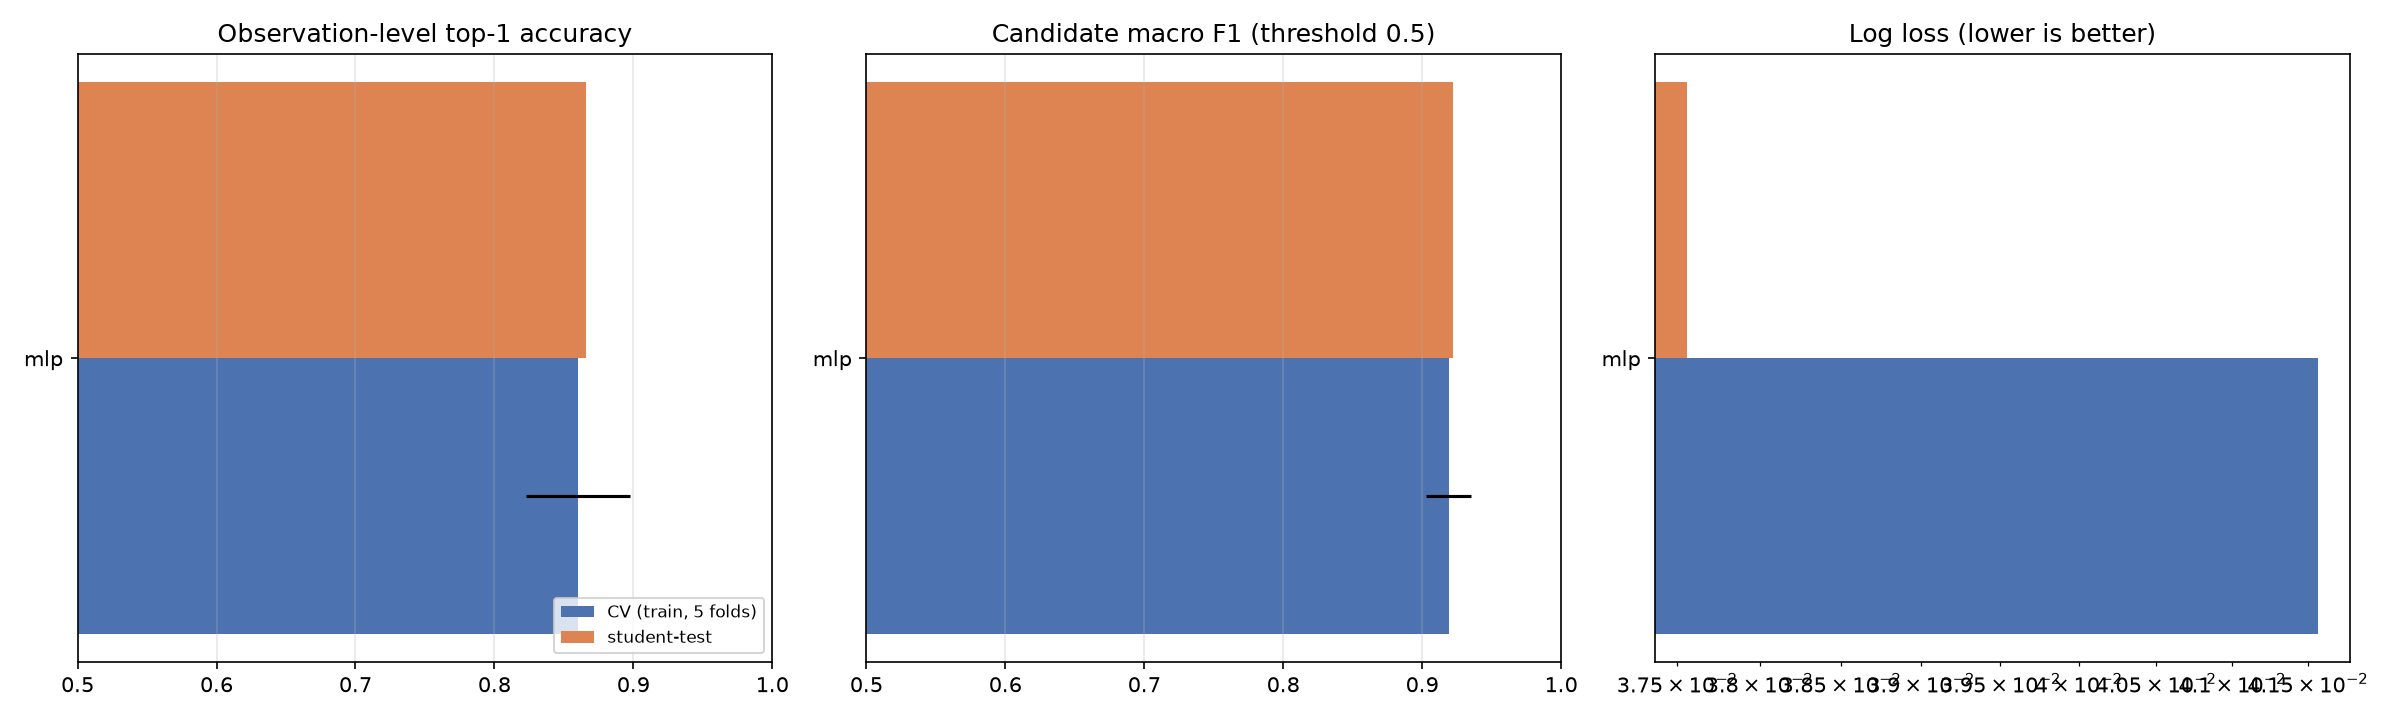
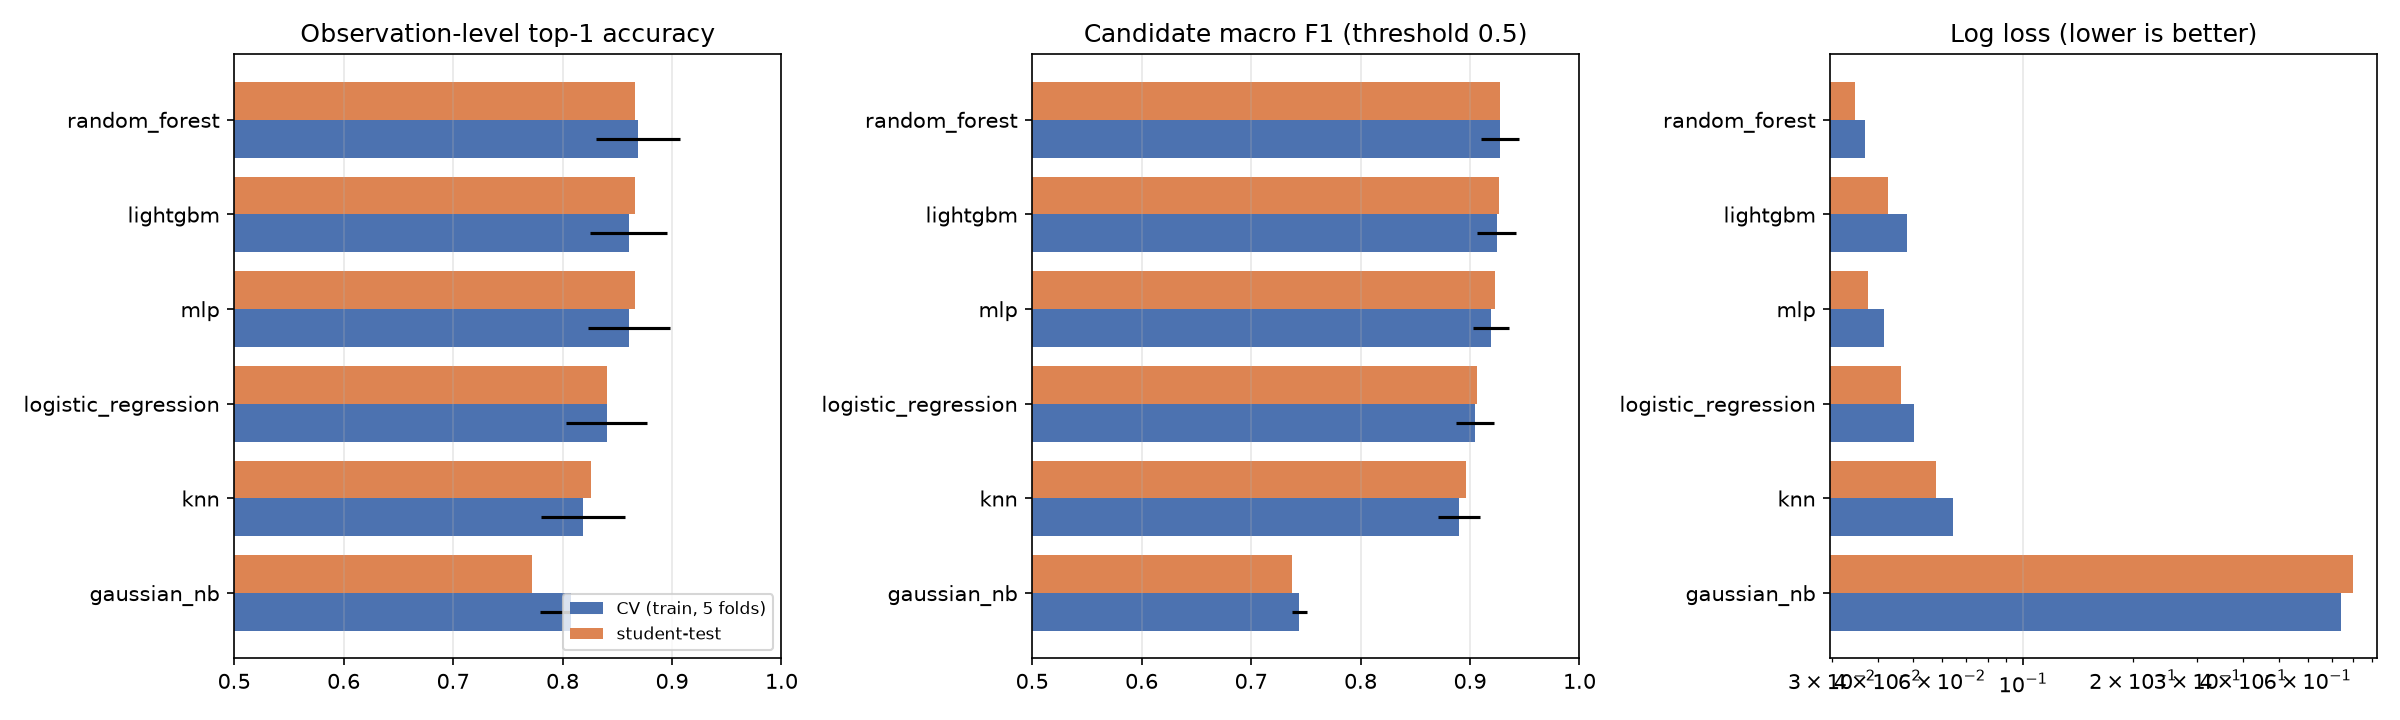
Final P2/P3 results: RF rerun, idle-machine timing, Section 3.1/4 tables filled, API latency benchmark, README results
Student-test: tuned LightGBM 0.882 -> +HMM 0.963 top-1; API 0.68 s/trip mean.

diff --git a/src/models/route_eval.py b/src/models/route_eval.py
@@ -7,9 +7,13 @@ classifier-only route continuity / edit distance, and top-1 after HMM decoding w
     python -m src.models.route_eval
 
 Inputs: results/test_prob_<model>.npy (written by train_compare / bayes_opt), configs/hmm.yaml
+Inputs (optional): results/inference_timing.csv (python -m src.models.timing)
 Outputs: results/model_route_metrics.csv, results/model_comparison_table.csv (report Section 3.1)
 """
+import os
+
 import numpy as np
+from joblib import Parallel, delayed
 import pandas as pd
 import yaml
 
@@ -24,25 +28,31 @@ NAMES = {"logistic_regression": "Logistic Regression", "gaussian_nb": "Gaussian 
          "lightgbm_tuned": "LightGBM (Bayesian-tuned)"}
 
 
+def _trip_rows(tid, ref, Fi, probs, params):
+    """All models on one trip (one lattice shared by every model). Runs in a worker process."""
+    trip = load_trip(tid, "student_test", load_route=False)
+    arcs = trip.arcs.values
+    lat = build_lattice(trip, Fi, gap_s=params["gap_s"])
+    rows = []
+    for m, p in probs.items():
+        c = sequence_metrics(top1_from_scores(Fi, p, len(ref)), ref, arcs)
+        h = sequence_metrics(decode(lat, p, params), ref, arcs)
+        rows.append({"model": m, "trip_id": tid, "n": len(ref), "clf_top1": c["top1"], "clf_continuity": c["continuity"],
+                     "clf_edit_distance": c["edit_distance"], "hmm_top1": h["top1"], "hmm_continuity": h["continuity"],
+                     "hmm_edit_distance": h["edit_distance"]})
+    return rows
+
+
 def main():
     F, P = load_partition("student_test")
     params = yaml.safe_load(open(REPO_ROOT / "configs" / "hmm.yaml"))["hmm"]
     models = [m for m in NAMES if (RES / f"test_prob_{m}.npy").exists()]
     probs = {m: np.load(RES / f"test_prob_{m}.npy") for m in models}
-    rows = []
-    for tid, g in P.groupby("trip_id"):
-        msk = (F.trip_id == tid).values
-        Fi, ref = F[msk], g.label_arc.values
-        trip = load_trip(tid, "student_test", load_route=False)
-        arcs = trip.arcs.values
-        lat = build_lattice(trip, Fi, gap_s=params["gap_s"])
-        for m in models:
-            p = probs[m][msk]
-            c = sequence_metrics(top1_from_scores(Fi, p, len(ref)), ref, arcs)
-            h = sequence_metrics(decode(lat, p, params), ref, arcs)
-            rows.append({"model": m, "trip_id": tid, "n": len(ref), "clf_top1": c["top1"], "clf_continuity": c["continuity"],
-                         "clf_edit_distance": c["edit_distance"], "hmm_top1": h["top1"], "hmm_continuity": h["continuity"],
-                         "hmm_edit_distance": h["edit_distance"]})
+    groups = [(tid, g.label_arc.values, (F.trip_id == tid).values) for tid, g in P.groupby("trip_id")]
+    out = Parallel(n_jobs=min(len(groups), os.cpu_count() or 1))(
+        delayed(_trip_rows)(tid, ref, F[msk][["point_idx", "arc_id", "frac"]], {m: probs[m][msk] for m in models}, params)
+        for tid, ref, msk in groups)
+    rows = [r for o in out for r in o]
     D = pd.DataFrame(rows)
     S = D.groupby("model").apply(lambda g: pd.Series({
         c: np.average(g[c], weights=g.n) for c in ["clf_top1", "clf_continuity", "hmm_top1", "hmm_continuity"]
@@ -51,6 +61,9 @@ def main():
     S.to_csv(RES / "model_route_metrics.csv", index=False)
 
     C = pd.read_csv(RES / "model_comparison.csv").set_index("model")
+    # inference time: idle-machine benchmark (src/models/timing.py) if available, else the time recorded during training
+    timing = (pd.read_csv(RES / "inference_timing.csv").set_index("model").ms_per_1k_rows
+              if (RES / "inference_timing.csv").exists() else None)
     T = []
     tuned = pd.read_csv(RES / "tuning" / "untuned_vs_tuned.csv") if (RES / "tuning" / "untuned_vs_tuned.csv").exists() else None
     for m in models:
@@ -71,7 +84,7 @@ def main():
                   "Route continuity (classifier only)": round(s.clf_continuity, 4),
                   "Route continuity (+HMM)": round(s.hmm_continuity, 4),
                   "Student-test macro F1": round(f1, 4), "Student-test log loss": round(ll, 4),
-                  "Inference time (ms / 1k candidates)": round(inf, 2)})
+                  "Inference time (ms / 1k candidates)": round(float(timing[m]) if timing is not None and m in timing.index else inf, 2)})
     T = pd.DataFrame(T)
     T.to_csv(RES / "model_comparison_table.csv", index=False)
     print(T.to_string(index=False))

diff --git a/api/benchmark.py b/api/benchmark.py
@@ -1,0 +1,31 @@
+"""
+api/benchmark.py
+End-to-end latency of the API's predict_trip (same code as POST /predict) for every evaluation trip,
+on an idle machine, split into stages (candidates, features + classifier, HMM lattice + Viterbi).
+
+    python -m api.benchmark        ->  results/api_latency.csv
+"""
+import pandas as pd
+import yaml
+
+from api.config import config
+from api.pipeline import predict_trip
+from src.data.loader import list_trips, REPO_ROOT
+from src.models.predictor import PathSnapPredictor
+
+
+def main():
+    pred = PathSnapPredictor(config.model_path)
+    hmm = yaml.safe_load(open(config.hmm_config_path, encoding="utf-8"))["hmm"]
+    rows = []
+    for tid in list_trips(config.eval_partition, config.data_dir):
+        r = predict_trip(tid, config.data_dir, config.eval_partition, predictor=pred, hmm_config=hmm)
+        rows.append({"trip_id": tid, "n_points": len(r["track"]), **{f"{k}_ms": v for k, v in r["timings_ms"].items()}})
+        print(rows[-1], flush=True)
+    d = pd.DataFrame(rows)
+    d.to_csv(REPO_ROOT / "results" / "api_latency.csv", index=False)
+    print(d.describe().round(0).to_string())
+
+
+if __name__ == "__main__":
+    main()

diff --git a/report/REPORT_SECTIONS_3_4_5.md b/report/REPORT_SECTIONS_3_4_5.md
@@ -58,7 +58,21 @@ Source: `results/model_comparison.csv` (+ `results/model_route_metrics.csv` for 
 CV = 5-fold GroupKFold on clean train (mean ± std over folds). Test = student-test (10 trips, 19,160 points). Inference time is
 measured on the full student-test candidate set (366,311 rows) on one laptop (22 logical cores).
 
-<!-- TABLE_3_1 -->
+| Model | Family | Key configuration | CV macro F1 | CV top-1 | Test top-1 (classifier) | Test top-1 (+HMM) | Route continuity (classifier / +HMM) | Test macro F1 | Test log loss | Inference (ms / 1k cand.) |
+|---|---|---|---|---|---|---|---|---|---|---|
+| Logistic Regression | Linear | C=1.0, L2, lbfgs, scaled | 0.9045 ± 0.0171 | 0.8402 ± 0.0368 | 0.8410 | 0.9225 | 0.9297 / 0.9836 | 0.9067 | 0.0464 | 0.12 |
+| Gaussian Naive Bayes | Probabilistic generative | var_smoothing=1e-9, scaled | 0.7441 ± 0.0071 | 0.8076 ± 0.0280 | 0.7717 | 0.9163 | 0.9190 / 0.9833 | 0.7376 | 0.7969 | 0.30 |
+| K-Nearest Neighbours | Instance-based | k=25, distance-weighted, 120k-row sample, scaled | 0.8901 ± 0.0193 | 0.8190 ± 0.0384 | 0.8260 | 0.9181 | 0.9183 / 0.9830 | 0.8961 | 0.0577 | 47.68 |
+| Random Forest | Bagging ensemble | 300 trees, min_leaf 5, max_features sqrt | 0.9274 ± 0.0174 | 0.8686 ± 0.0383 | 0.8665 | 0.9523 | 0.9391 / 0.9835 | 0.9271 | 0.0347 | 1.89 |
+| LightGBM (untuned) | Gradient boosting | defaults: 100 trees, lr 0.1, 31 leaves | 0.9245 ± 0.0177 | 0.8604 ± 0.0350 | 0.8658 | 0.9582 | 0.9220 / 0.9834 | 0.9265 | 0.0427 | 0.33 |
+| MLP | Neural network | (128,64) ReLU, Adam 1e-3, early stop (ep. 19), 300k rows | 0.9191 ± 0.0162 | 0.8603 ± 0.0375 | 0.8662 | 0.9348 | 0.9439 / 0.9831 | 0.9225 | 0.0376 | 0.41 |
+| **LightGBM (Bayesian-tuned, final)** | Gradient boosting | 500 trees, lr 0.029, 194 leaves, depth 8 (Sec. 4) | 0.9298 | 0.8733 | 0.8820 | 0.9627 | 0.9464 / 0.9835 | 0.9327 | 0.0320 | 3.66 |
+
+* Every model was trained and evaluated; none is N/A on any metric. All of them output probabilities, so log loss applies to all.
+* "Test top-1 (+HMM)" decodes every model's probabilities with the same tuned decoder (`configs/hmm.yaml`, tuned on the tuned
+  LightGBM's OOF probabilities; see 3.4 for why this favours LightGBM-shaped probabilities).
+* Inference: idle-machine benchmark, median of 3 passes over all 366,311 student-test candidate rows (`results/inference_timing.csv`, `src/models/timing.py`).
+* The tuned model's CV values come from the same 5 folds (`results/tuning/untuned_vs_tuned.csv`); the fold std is not stored for it.
 
 ### 3.2 Per-model analysis
 
@@ -69,7 +83,7 @@ Candidate-level positives are 6.2 % of rows, so recall/precision refer to the po
 #### 3.2.1 Logistic Regression (linear)
 * **Why suitable.** A calibrated linear baseline: most of the signal is monotone in a few features (closer, better aligned,
   present in the neighbouring points), so a linear log-odds model is a reasonable first fit. Its probabilities are directly usable as HMM emissions.
-* **Strengths / limitations.** Fast (4 s fit, 0.30 ms per 1k candidates), stable across folds, interpretable coefficients. It cannot
+* **Strengths / limitations.** Fast (4 s fit, 0.12 ms per 1k candidates), stable across folds, interpretable coefficients. It cannot
   model interactions, e.g. "the heading cosine matters only when the vehicle is moving", so it confuses the two directions of a
   street when the vehicle is slow.
 * **Hyperparameters / objective.** StandardScaler, L2 penalty C = 1.0, lbfgs, max_iter 2000. Objective: binary cross-entropy (log loss) + L2.
@@ -91,7 +105,7 @@ Candidate-level positives are 6.2 % of rows, so recall/precision refer to the po
 * **Why suitable.** A non-parametric local method: similar (distance, heading, context) patterns should share labels. It needs no assumption about the
   shape of the decision boundary.
 * **Strengths / limitations.** Captures local non-linear structure with no training. But prediction is expensive: every query
-  is compared with the stored rows, **57.7 ms per 1k candidates, 170× slower than LightGBM**, and 21 s for the student-test set.
+  is compared with the stored rows, **47.7 ms per 1k candidates, 143× slower than untuned LightGBM**, and 17.5 s for the student-test set.
   Because of that we stored only a 120k-row subsample. It is also sensitive to feature scaling and to the many uninformative dimensions.
 * **Hyperparameters / objective.** StandardScaler, k = 25, distance weighting, Euclidean metric, 120k-row training subsample. There is no loss
   function; the prediction is a weighted vote of the neighbours.
@@ -102,8 +116,8 @@ Candidate-level positives are 6.2 % of rows, so recall/precision refer to the po
 #### 3.2.4 Random Forest (bagging ensemble)
 * **Why suitable.** Averaged deep trees handle the feature interactions logistic regression misses: heading × speed,
   distance × number of candidates, and context × distance. They need no scaling and are robust to the fill value (150 m).
-* **Strengths / limitations.** Best CV top-1 and good calibration (log loss 0.037). But it is the slowest to train (147 s on all clean trips with 22 cores,
-  and ~110–155 s per fold), its model file is 74 MB, and inference is 3.0 ms per 1k candidates (9× LightGBM).
+* **Strengths / limitations.** Best CV top-1 and good calibration (log loss 0.037). But it is slow to train (158 s on all clean trips with 22 cores,
+  ~105–155 s per fold), its model file is 74 MB (not committed; regenerated by the script), and inference is 1.9 ms per 1k candidates (5.7× untuned LightGBM).
 * **Hyperparameters / objective.** 300 trees, min_samples_leaf 5, max_features sqrt, bootstrap; each tree is grown greedily to minimise Gini impurity.
 * **Results.** Top-1 0.867, macro F1 0.927, log loss 0.035 (CV top-1 **0.869 ± 0.038**, macro F1 0.927).
 * **Fit.** Train-fit top-1 0.947 vs CV 0.869: the largest gap of all models. It is **mildly overfitting / high variance** (deep trees with leaf size 5),
@@ -112,7 +126,7 @@ Candidate-level positives are 6.2 % of rows, so recall/precision refer to the po
 #### 3.2.5 LightGBM (gradient boosting) — selected for tuning
 * **Why suitable.** Boosted trees fit the same interactions as the forest but sequentially correct the remaining errors. They are fast on
   millions of rows and expose a rich hyperparameter space, which makes them a good candidate for Bayesian optimisation.
-* **Strengths / limitations.** 2.5 s training, 0.34 ms per 1k candidates, small model (0.16 MB). With the library defaults (100 trees, 31 leaves)
+* **Strengths / limitations.** 2.5 s training, 0.33 ms per 1k candidates, small model (0.16 MB). With the library defaults (100 trees, 31 leaves)
   its log loss (0.043) is worse than the forest's: defaults are not tuned for a 6 %-positive problem with 31 correlated features.
 * **Hyperparameters / objective.** Defaults: 100 trees, learning rate 0.1, 31 leaves, unlimited depth, min_child_samples 20,
   no subsampling. Objective: binary log loss (gradient boosting on its gradient/Hessian).
@@ -160,7 +174,13 @@ CV alone does not separate RF, LightGBM and MLP. We chose **LightGBM for Bayesia
 
 The choice was confirmed after tuning: the tuned LightGBM is the best model on every quality metric, both in CV (top-1 0.873, macro F1 0.930)
 and on student-test (top-1 0.882, macro F1 0.933, log loss 0.032). After HMM decoding it is also the best (0.963, table 3.1).
-The ranking of the models is essentially unchanged by HMM decoding (only the near-tied KNN and naive Bayes swap with RF pending, see table 3.1): a better classifier gives a better decoded route, so the classifier choice still matters even with the HMM.
+With HMM decoding, the ranking changes (table 3.1): tuned LightGBM 0.963, untuned LightGBM 0.958, Random Forest 0.952,
+MLP 0.935, Logistic Regression 0.923, KNN 0.918, Gaussian NB 0.916. Random Forest and the MLP are as good as untuned
+LightGBM point by point, but gain less from the decoder. One reason is a confound in our setup: the decoder parameters (notably the
+emission weight 0.25) were tuned on LightGBM probabilities, so they suit that model's probability distribution best. A fair comparison of
+the decoded routes would re-tune the decoder per model; we did not do that, so the +HMM column compares the models under the final system's decoder.
+The classifier choice still matters with the HMM: the best classifier gives the best route, and the gap between the weakest and the strongest
+model shrinks from 11 points (0.772 vs 0.882) to 4.6 points (0.916 vs 0.963), but it does not disappear.
 
 ---
 
@@ -204,12 +224,28 @@ the "untuned" starting point would have been worse than the real default.
 
 **6. Untuned vs tuned** (same features, same training rows, same 5 CV folds, same student-test set):
 
-<!-- TUNING_TABLE -->
+| Metric | Untuned | Tuned |
+|---|---|---|
+| CV macro F1 (5-fold, train) | 0.9245 | 0.9298 |
+| CV top-1 | 0.8604 | 0.8733 |
+| CV log loss | 0.0481 | 0.0351 |
+| Student-test top-1 (classifier only) | 0.8658 | 0.8820 |
+| Student-test top-1 (+HMM) | 0.9582 | 0.9627 |
+| Student-test macro F1 | 0.9265 | 0.9327 |
+| Student-test log loss | 0.0427 | 0.0320 |
+| Student-test precision / recall | 0.8674 / 0.8539 | 0.8912 / 0.8541 |
+| Inference, ms per 1k candidates (idle benchmark) | 0.33 | 3.66 |
+| Inference, all 366,311 test candidates (s) | 0.12 | 1.34 |
+| Training time on all clean trips (s, same run) | 13.0 | 83.6 |
+| Model file (MB) | 0.16 | 4.08 |
+
+(Training times in this table were both measured in the same run of `bayes_opt.py`, which ran while other jobs were active; compare them with each other, not with Section 3.)
 
 The tuned model is better on every quality metric. Its CV top-1 (0.873) is also above the untuned random forest (0.869), so after tuning,
 LightGBM is the best model overall. The price is inference cost: 500 trees with up to 194 leaves are slower than 100 × 31.
-This is still well within the API budget (a whole student-test trip is scored in well under a second; see Section 7 timings).
-Parameter importance (fANOVA, `tuning_importance.png`): <!-- IMPORTANCE -->
+It is still cheap in absolute terms: all 366,311 student-test candidates are scored in 1.34 s, i.e. 0.33 s for the largest test
+trip (00000056, 90,835 candidates). End-to-end API latency also includes building the HMM lattice (Section 7).
+Parameter importance (fANOVA over the 27 completed trials, `results/tuning/param_importance.csv`, `tuning_importance.png`): num_leaves 0.22, min_child_samples 0.21, colsample_bytree 0.19, learning_rate 0.16, n_estimators 0.08, reg_lambda 0.04, reg_alpha 0.04, max_depth 0.03, subsample 0.03. Tree capacity and sampling (num_leaves, min_child_samples, colsample_bytree) and the learning rate matter most; max_depth and row subsampling matter least once the others are set.
 
 ---
 
@@ -326,5 +362,7 @@ projection distance is almost the same on both arcs.
   The HMM still makes the route more continuous (0.853 → 0.916) and raises route F1 from 0.82 to 0.89. These trips measure
   the quality of the labels, not of the model.
 
-**Cost.** Decoding takes about 26 ms per 1,000 points on student-test, after building the lattice (route distances), which dominates
-the decoder time. See Section 7 for the end-to-end API latency.
+**Cost.** End-to-end latency of the API pipeline (`predict_trip`, the code behind `POST /predict`), measured on an idle machine for all
+10 student-test trips (`python -m api.benchmark` → `results/api_latency.csv`): **0.10–1.50 s per trip, mean 0.68 s**. Of that, on average,
+40 ms is candidate generation, 421 ms is features + tuned LightGBM, and 197 ms is the HMM (lattice route distances + Viterbi). The slowest trip
+is 00000056 (3,958 points). Decoding therefore adds about 41 % to the classifier-only pipeline time (197 ms vs 483 ms for everything else, on average), for +8 points of top-1.

diff --git a/README.md b/README.md
@@ -171,8 +171,11 @@ python -m src.features.dataset          # 1. labels (P1 monotone-DP alignment), 
 python -m src.models.train_compare      # 2. 6 models, GroupKFold(5) by trip + student-test -> results/model_comparison.csv, models/*.joblib
 python -m src.tuning.bayes_opt 30       # 3. Optuna TPE on LightGBM (30 trials) -> results/tuning/, models/lightgbm_tuned.joblib, OOF probs
 python -m src.hmm.evaluate 30           # 4. tune HMM decoder on train OOF probs, compare vs classifier-only -> configs/hmm.yaml, results/hmm/
-python -m src.models.route_eval         # 5. route metrics for every model + Section 3.1 table -> results/model_comparison_table.csv
+python -m src.models.route_eval         # 5. (after timing) route metrics for every model + Section 3.1 table -> results/model_comparison_table.csv
 python -m src.models.error_analysis     # 6. error types (reverse twin / intersection / ...) -> results/error_analysis.csv
+python -m src.hmm.break_analysis        #    remaining continuity breaks: multi-hop vs real jumps -> results/hmm/break_analysis.csv
+python -m src.models.timing             #    idle-machine inference benchmark -> results/inference_timing.csv
+python -m api.benchmark                 #    end-to-end API latency per trip -> results/api_latency.csv
 python -m src.viz.make_report_maps      # 7. Folium maps for the report -> results/maps/
 pytest tests/                           # 8. API contract tests on all 10 student-test trips
 ```
@@ -189,9 +192,16 @@ Logs of every run are in `results/logs/`.
 | HMM / Viterbi | `src/hmm/decoder.py`, `src/hmm/evaluate.py` | `configs/hmm.yaml`, `results/hmm/*.csv`, `results/figures/hmm_*.png` |
 | Metrics (shared with API) | `src/eval/metrics.py` | |
 
-## 7. Results
+## 7. Results (student-test, 10 trips, 19,160 GPS points)
 
-See `report/REPORT_SECTIONS_3_4_5.md` for the full write-up. Every number there is read from the CSV files above.
+| Pipeline | Top-1 | Route continuity | Route F1 | Source |
+|---|---|---|---|---|
+| Best untuned classifier (Random Forest) | 0.8665 | 0.9391 | – | `results/model_comparison.csv`, `results/model_route_metrics.csv` |
+| Bayesian-tuned LightGBM, classifier only | 0.8820 | 0.9464 | 0.901 | `results/tuning/untuned_vs_tuned.csv`, `results/hmm/hmm_vs_classifier_summary.csv` |
+| **Tuned LightGBM + HMM/Viterbi (served by the API)** | **0.9627** | **0.9835** | **0.973** | `results/hmm/hmm_vs_classifier_summary.csv` |
+
+End-to-end API latency: 0.10–1.50 s per trip, mean 0.68 s (`results/api_latency.csv`, `python -m api.benchmark`).
+Full write-up with all models, the tuning log and the HMM analysis: `report/REPORT_SECTIONS_3_4_5.md`.
 
 ---
 
